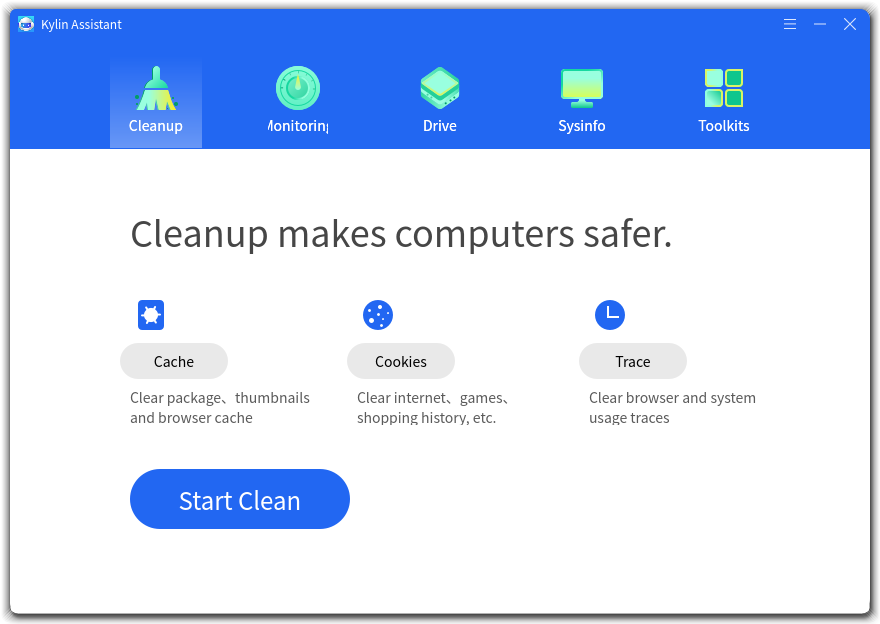
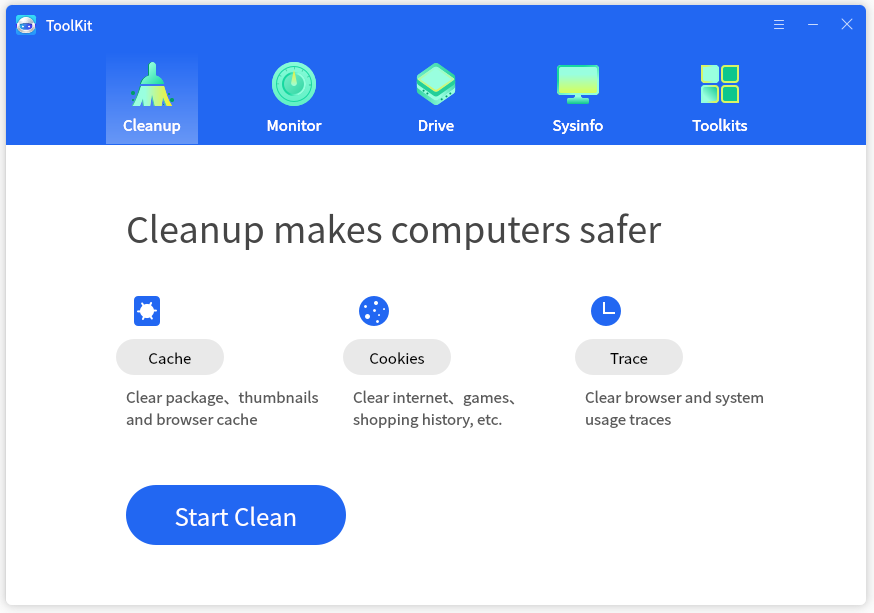
Feat:     修改帮助文档的截图     清理界面子窗口使用窗管圆角

diff --git a/component/selectcategorywidget.cpp b/component/selectcategorywidget.cpp
@@ -25,15 +25,19 @@
 #include <QGraphicsDropShadowEffect>
 #include <QStyle>
 #include <QStyleOption>
+#include "xatom-helper.h"
 
 SelectCategoryWidget::SelectCategoryWidget(CleanerCategoryID id, const QString &title, bool needMin, QWidget *parent)
     : QDialog(parent)
     , m_mousePressed(false)
     , m_id(id)
 {
-    this->setWindowFlags(Qt::FramelessWindowHint | Qt::Dialog/*|Qt::WindowMinimizeButtonHint*/);
-    this->setAutoFillBackground(true);
-    this->setAttribute(Qt::WA_TranslucentBackground);
+    MotifWmHints hints;
+    hints.flags = MWM_HINTS_FUNCTIONS|MWM_HINTS_DECORATIONS;
+    hints.functions = MWM_FUNC_ALL;
+    hints.decorations = MWM_DECOR_BORDER;
+    XAtomHelper::getInstance()->setWindowMotifHint(this->winId(), hints);
+
     this->setWindowTitle(title);
 
 //    if(needMin)
@@ -41,7 +45,7 @@ SelectCategoryWidget::SelectCategoryWidget(CleanerCategoryID id, const QString &
 //    else
     this->setFixedSize(340,380);
 
-    this->setStyleSheet("QDialog{background: #ffffff; border:1px solid rgba(207,207,207,1);;border-radius:10px;}");
+    this->setStyleSheet("QDialog{background: #ffffff;}");
 
     QWidget *containerWidget = new QWidget(this);
     m_mainLayout = new QVBoxLayout(containerWidget);
@@ -129,23 +133,23 @@ void SelectCategoryWidget::moveCenter()
 
 void SelectCategoryWidget::paintEvent(QPaintEvent *event)
 {
-    Q_UNUSED(event)
-    QPainterPath path;
-    path.setFillRule(Qt::WindingFill);
-    path.addRoundRect(10,10,this->width()-20,this->height()-20,5,5);
-    QPainter painter(this);
-    painter.setRenderHint(QPainter::Antialiasing,true);
-    painter.fillPath(path,QBrush(Qt::white));
-    QColor color(0,0,0,50);
-    for(int i = 0 ; i < 10 ; ++i)
-    {
-        QPainterPath path;
-        path.setFillRule(Qt::WindingFill);
-        path.addRoundRect(10-i,10-i,this->width()-(10-i)*2,this->height()-(10-i)*2,5,5);
-        color.setAlpha(150 - qSqrt(i)*50);
-        painter.setPen(color);
-        painter.drawPath(path);
-    }
+//    Q_UNUSED(event)
+//    QPainterPath path;
+//    path.setFillRule(Qt::WindingFill);
+//    path.addRoundRect(10,10,this->width()-20,this->height()-20,5,5);
+//    QPainter painter(this);
+//    painter.setRenderHint(QPainter::Antialiasing,true);
+//    painter.fillPath(path,QBrush(Qt::white));
+//    QColor color(0,0,0,50);
+//    for(int i = 0 ; i < 10 ; ++i)
+//    {
+//        QPainterPath path;
+//        path.setFillRule(Qt::WindingFill);
+//        path.addRoundRect(10-i,10-i,this->width()-(10-i)*2,this->height()-(10-i)*2,5,5);
+//        color.setAlpha(150 - qSqrt(i)*50);
+//        painter.setPen(color);
+//        painter.drawPath(path);
+//    }
 
     QWidget::paintEvent(event);
 }
